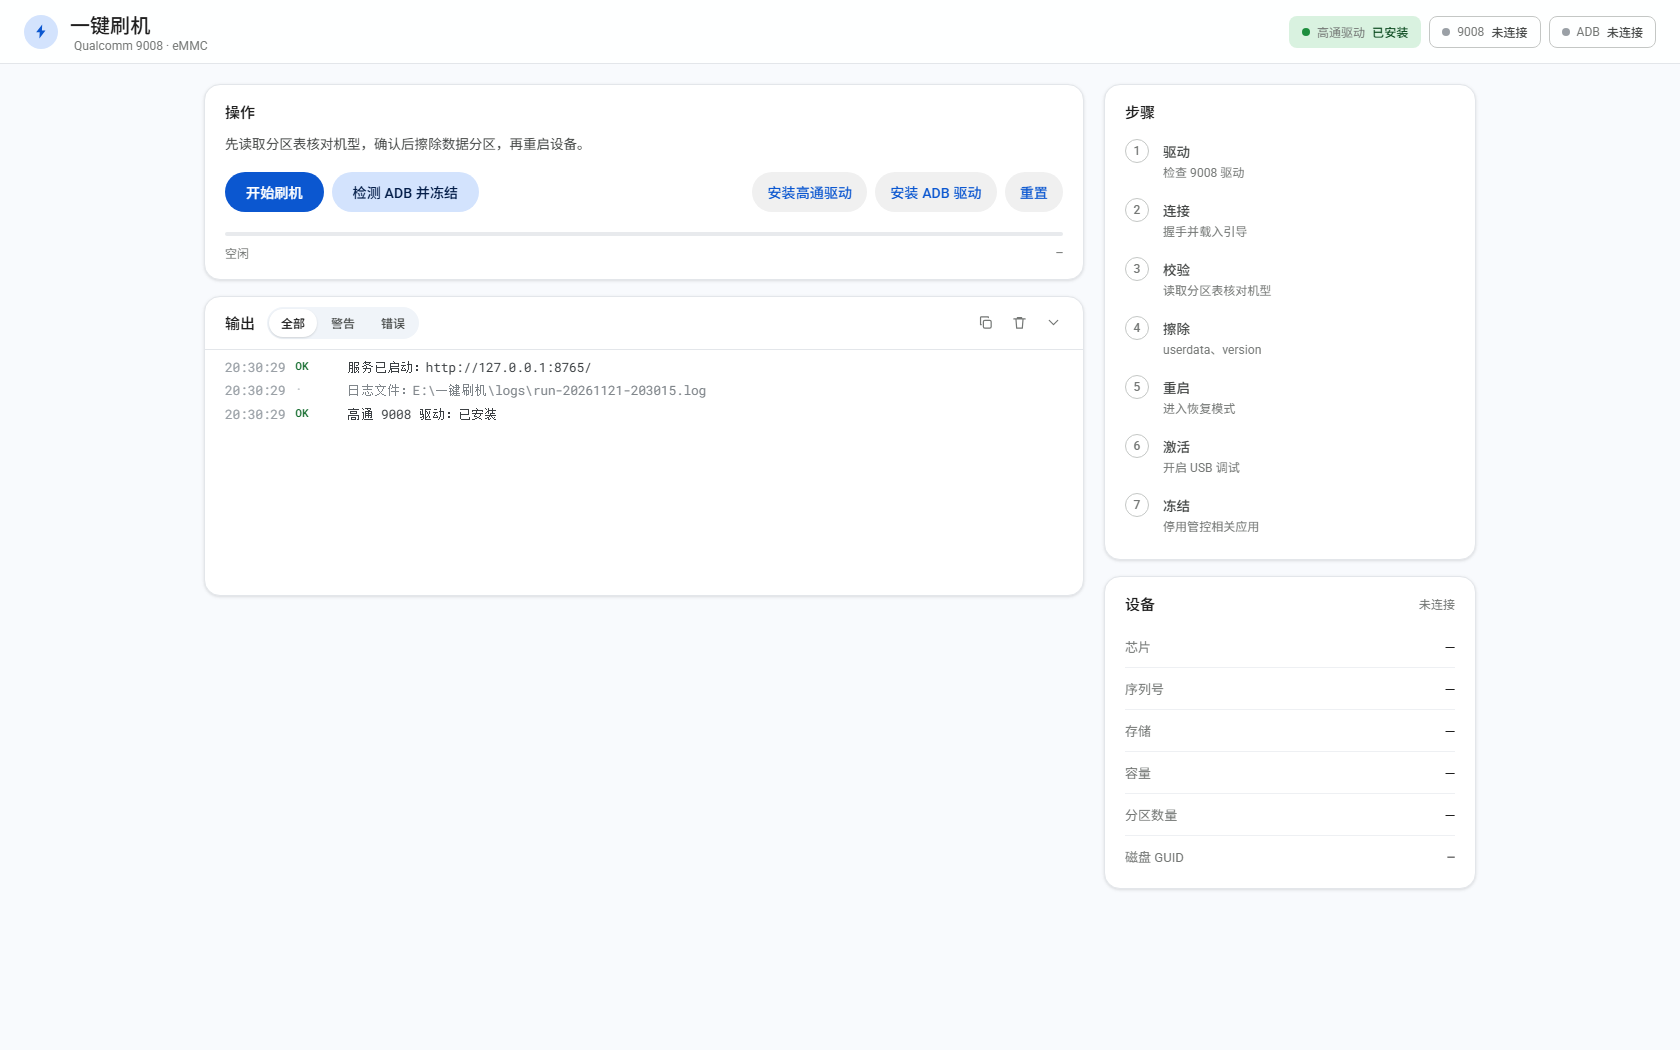
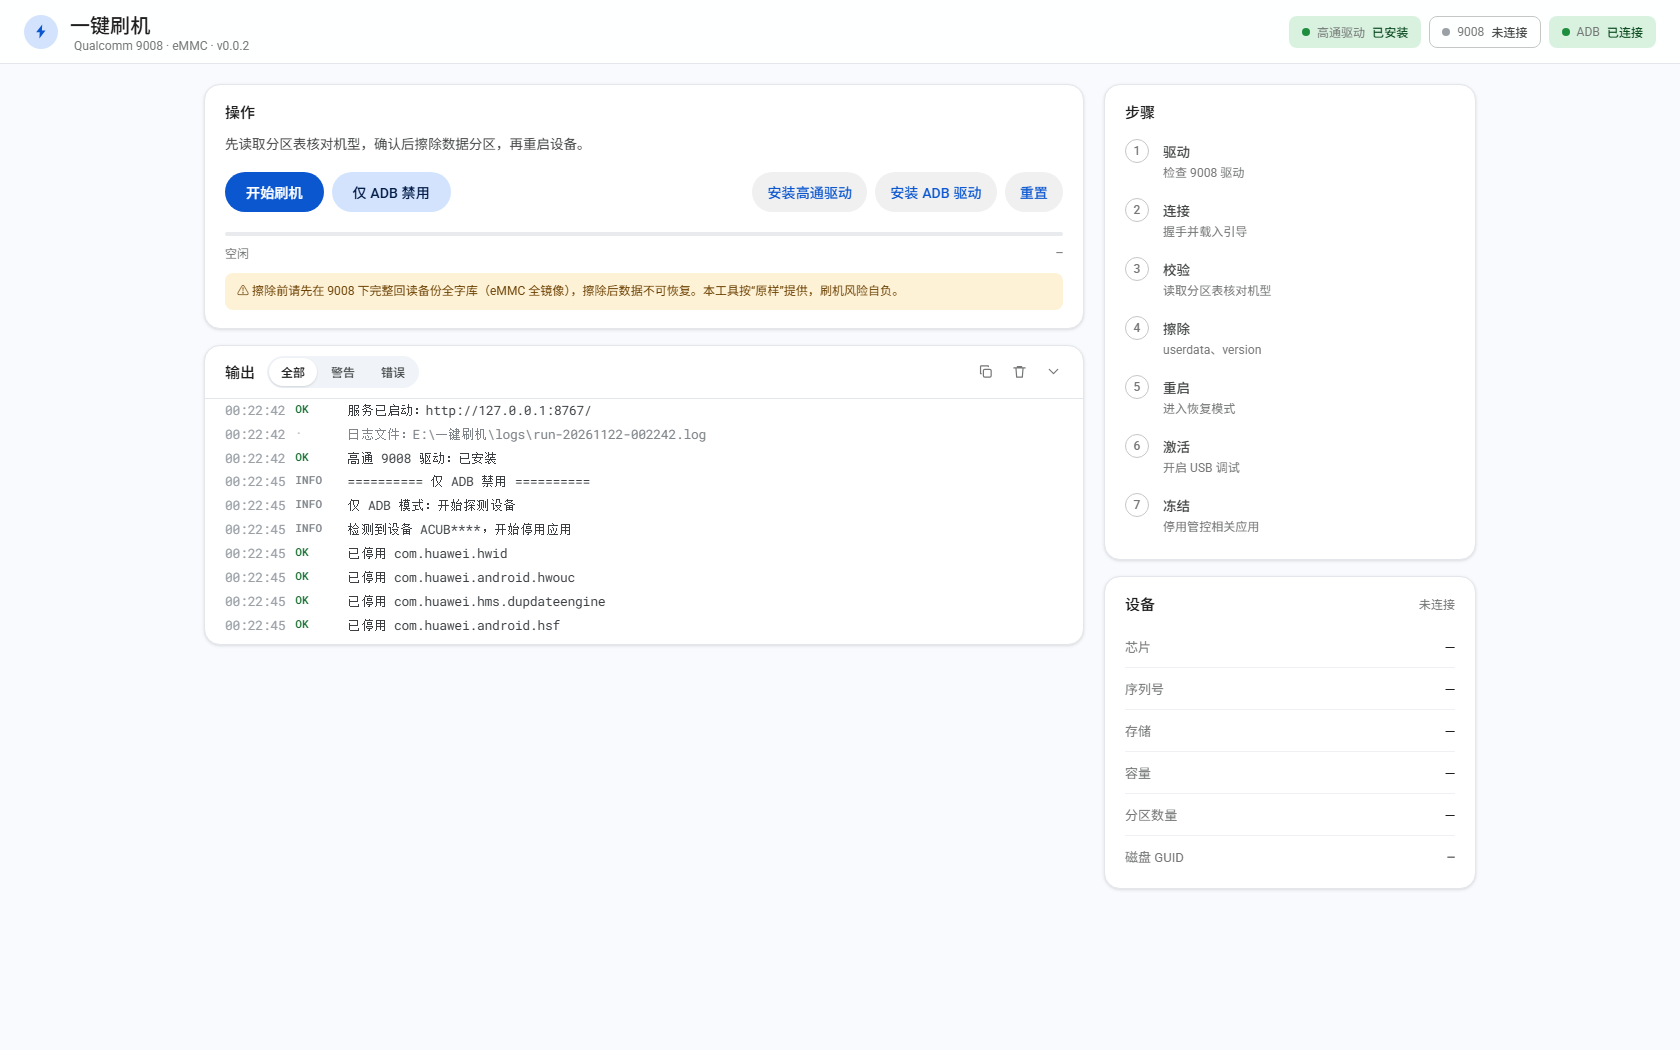
feat: 新增「仅 ADB 禁用」独立入口，发布 v0.0.2
- /api/adb/disable：不进 9008，同步探测 adb 设备并停用 4 个华为管控应用，返回逐项结果
- 前端新增按钮与结果弹窗（成功/未连接/未授权/缺 adb 分别提示）
- 界面与日志中的设备序列号改为打码（前 4 位 + ****）
- 标题栏显示版本号 0.0.2
- README 增加更新日志与“仅 ADB 禁用”用法

diff --git a/web/app.js b/web/app.js
@@ -205,10 +205,11 @@
         since = st.events[st.events.length - 1].id;
         renderLog(st.events);
       }
+      if (st.version) $("ver").textContent = "v" + st.version;
       setChip($("c-driver"), st.driver_ok ? "ok" : "warn", st.driver_ok ? "已安装" : "未安装");
       const port = (st.edl_ports || [])[0];
       setChip($("c-edl"), port ? "ok" : "", port || "未连接");
-      setChip($("c-adb"), st.adb_serial ? "ok" : "", st.adb_serial || "未连接");
+      setChip($("c-adb"), st.adb_serial ? "ok" : "", st.adb_serial ? "已连接" : "未连接");
 
       renderSpec(st.device || {});
       renderSteps(st.phase);
@@ -225,8 +226,37 @@
     if (!r.ok) { toast(r.error || "启动失败"); $("btn-flash").disabled = false; }
   };
   $("btn-adb").onclick = async () => {
-    const r = await fetch("/api/adb/freeze", { method: "POST" }).then((x) => x.json());
-    if (!r.ok) toast(r.error || "启动失败");
+    const btn = $("btn-adb");
+    const label = btn.textContent;
+    btn.disabled = true;
+    btn.textContent = "探测中…";
+    try {
+      const r = await fetch("/api/adb/disable", { method: "POST" }).then((x) => x.json());
+      if (r.ok) {
+        const list = (r.results || []).map((x) => `${x.ok ? "✓" : "✗"} ${x.pkg}`).join("\n");
+        showInfo("已停用相关应用",
+          `设备：${r.serial}\n\n${list}\n\n` +
+          "请不要打开应用市场、云空间、华为账号、系统更新等华为账号相关功能。\n" +
+          "如需恢复：adb shell pm enable <包名>");
+      } else if (r.reason === "no_device") {
+        showInfo("未检测到设备",
+          "用数据线连接电脑，在平板上打开 USB 调试并允许授权，然后重新点“仅 ADB 禁用”。");
+      } else if (r.reason === "unauthorized") {
+        showInfo("需要授权",
+          "平板上应该弹出了 USB 调试授权窗口：勾选“始终允许”并确定，然后再试一次。");
+      } else if (r.reason === "busy") {
+        toast("任务进行中，请稍候");
+      } else if (r.reason === "adb_missing") {
+        showInfo("缺少 adb", "未找到 " + (r.detail || "adb") + "，请使用完整安装包。");
+      } else {
+        showInfo("停用未完成", "设备状态：" + (r.reason || "未知"));
+      }
+    } catch (e) {
+      toast("请求失败");
+    } finally {
+      btn.disabled = false;
+      btn.textContent = label;
+    }
   };
   $("btn-driver").onclick = () => {
     toast("正在安装高通驱动，请在弹出的窗口里确认");

diff --git a/web/index.html b/web/index.html
@@ -14,7 +14,7 @@
     </div>
     <div class="ab-text">
       <div class="ab-title">一键刷机</div>
-      <div class="ab-sub">Qualcomm 9008 · eMMC</div>
+      <div class="ab-sub">Qualcomm 9008 · eMMC · <span id="ver"></span></div>
     </div>
   </div>
   <div class="ab-right">
@@ -32,7 +32,7 @@
         <p class="desc">先读取分区表核对机型，确认后擦除数据分区，再重启设备。</p>
         <div class="actions">
           <button class="btn filled" id="btn-flash">开始刷机</button>
-          <button class="btn tonal" id="btn-adb">检测 ADB 并冻结</button>
+          <button class="btn tonal" id="btn-adb">仅 ADB 禁用</button>
           <span class="spacer"></span>
           <button class="btn text" id="btn-driver">安装高通驱动</button>
           <button class="btn text" id="btn-addrv">安装 ADB 驱动</button>

diff --git a/app/server.py b/app/server.py
@@ -40,6 +40,8 @@ ADB_EXE = os.path.join(BASE, "tools", "platform-tools", "adb.exe")
 
 CREATE_NO_WINDOW = 0x08000000 if os.name == "nt" else 0
 
+APP_VERSION = "0.0.2"
+
 EXPECTED_MSM_ID = 0x1B80E1          # SM6225 / 骁龙 680
 REQUIRED_PARTITIONS = ["oeminfo", "super", "userdata", "version", "boot", "vbmeta"]
 ERASE_TARGETS = ["userdata", "version"]
@@ -110,6 +112,7 @@ class Store:
                 "prompt": self.prompt,
                 "running": self.running,
                 "adb_serial": self.adb_serial,
+                "version": APP_VERSION,
                 "driver_ok": self.device.get("driver_ok"),
                 "edl_ports": [p[0] for p in core.list_edl_ports()],
             }
@@ -212,6 +215,13 @@ def adb_run(args, timeout=60, serial=None):
         return 124, "adb 超时"
 
 
+def mask_serial(serial):
+    """序列号只保留前 4 位，避免日志/界面泄露。"""
+    if not serial:
+        return "****"
+    return serial[:4] + "****"
+
+
 def adb_devices():
     rc, out = adb_run(["devices"], timeout=30)
     devs = []
@@ -229,7 +239,7 @@ def adb_ensure_server():
 
 
 def freeze_packages(serial):
-    ST.log("开始冻结华为管控相关包（设备 %s）" % serial, "info")
+    ST.log("开始停用华为管控相关包（设备 %s）" % mask_serial(serial), "info")
     ok_all = True
     for pkg in FREEZE_PACKAGES:
         rc, out = adb_run(["shell", "pm", "disable-user", "--user", "0", pkg],
@@ -257,7 +267,7 @@ def watch_adb_and_freeze(timeout=1800):
         if devs:
             serial, state = devs[0]
             if state != last_state:
-                ST.log("检测到设备 %s（状态 %s）" % (serial, state), "info")
+                ST.log("检测到设备 %s（状态 %s）" % (mask_serial(serial), state), "info")
                 last_state = state
             if state == "device":
                 with ST.lock:
@@ -446,34 +456,46 @@ def flash_worker():
         ST.set_progress(0, 0)
 
 
-def adb_only_worker():
-    ST.running = True
-    try:
-        if not os.path.exists(ADB_EXE):
-            ST.log("未找到 adb：%s" % ADB_EXE, "error")
-            ST.set_phase("error")
-            return
-        adb_ensure_server()
+def adb_disable_only(wait_seconds=15):
+    """仅走 ADB：探测设备并停用管控相关应用，返回结构化结果。"""
+    if not os.path.exists(ADB_EXE):
+        return {"ok": False, "reason": "adb_missing", "detail": ADB_EXE}
+    ST.log("仅 ADB 模式：开始探测设备", "info")
+    adb_ensure_server()
+    deadline = time.time() + wait_seconds
+    serial = state = None
+    while time.time() < deadline:
         devs = adb_devices()
-        if not devs:
-            ST.log("未检测到 ADB 设备：请确认已开启 USB 调试并授权", "warn")
-            ST.set_phase("adb_wait")
-            ok = watch_adb_and_freeze()
-            if not ok:
-                ST.set_phase("guide")
-            return
-        serial, state = devs[0]
-        if state != "device":
-            ST.log("设备状态为 %s，请在平板上允许 USB 调试" % state, "warn")
-            ST.set_phase("guide")
-            return
-        with ST.lock:
-            ST.adb_serial = serial
-        ST.set_phase("freezing")
-        freeze_packages(serial)
-        ST.set_phase("done")
-    finally:
-        ST.running = False
+        if devs:
+            serial, state = devs[0]
+            if state == "device":
+                break
+        time.sleep(1)
+
+    if not serial:
+        ST.log("未检测到 ADB 设备", "warn")
+        return {"ok": False, "reason": "no_device",
+                "detail": "adb devices 中没有设备"}
+    if state != "device":
+        ST.log("设备状态为 %s，需要先在平板上允许 USB 调试" % state, "warn")
+        return {"ok": False, "reason": "unauthorized" if state == "unauthorized" else state,
+                "serial": serial}
+
+    with ST.lock:
+        ST.adb_serial = serial
+    ST.log("检测到设备 %s，开始停用应用" % mask_serial(serial), "info")
+
+    results = []
+    for pkg in FREEZE_PACKAGES:
+        rc, out = adb_run(["shell", "pm", "disable-user", "--user", "0", pkg],
+                          timeout=60, serial=serial)
+        text = (out or "").strip()
+        ok = "disabled-user" in text.lower()
+        line = text.splitlines()[-1] if text else ""
+        results.append({"pkg": pkg, "ok": ok, "msg": line})
+        ST.log(("已停用 " if ok else "停用失败 ") + pkg, "success" if ok else "error")
+
+    return {"ok": all(r["ok"] for r in results), "serial": mask_serial(serial), "results": results}
 
 
 # --------------------------------------------------------------------------
@@ -544,12 +566,11 @@ class Handler(BaseHTTPRequestHandler):
             ST.set_phase("starting")
             threading.Thread(target=flash_worker, daemon=True).start()
             return self._json({"ok": True})
-        if path == "/api/adb/freeze":
+        if path == "/api/adb/disable":
             if ST.running:
-                return self._json({"ok": False, "error": "任务进行中"})
-            ST.log("========== 检测 ADB 并冻结 ==========", "info")
-            threading.Thread(target=adb_only_worker, daemon=True).start()
-            return self._json({"ok": True})
+                return self._json({"ok": False, "reason": "busy", "detail": "任务进行中"})
+            ST.log("========== 仅 ADB 禁用 ==========", "info")
+            return self._json(adb_disable_only())
         if path == "/api/answer":
             data = self._body()
             ok = ST.answer(int(data.get("id", 0)), bool(data.get("answer")))

diff --git a/README.md b/README.md
@@ -26,6 +26,7 @@
 - 重启后按 5 步手动清单引导：恢复出厂 → 无网络热点激活 → 开发者选项 → USB 调试 → 授权连接
 - ADB 连接后自动停用 `com.huawei.hwid`、`com.huawei.android.hwouc`、
   `com.huawei.hms.dupdateengine`、`com.huawei.android.hsf`，并提示不要使用华为账号相关功能
+- 独立的「仅 ADB 禁用」入口：不进入 9008，直接探测已开机设备并停用上述应用，逐项显示结果
 - 全程日志写入 `logs/`，界面底部控制台支持等级过滤、复制、折叠
 
 ## 目录结构
@@ -91,6 +92,14 @@ python scripts/build_exe.py
 6. **激活**：按清单操作，直到设备以 `device` 状态出现在 `adb devices`。
 7. **停用**：执行 `pm disable-user --user 0 <包名>`，完成后提示不要使用华为账号 / HMS 功能。
 
+### 仅 ADB 禁用（不刷机）
+
+设备已经开机、只想停用管控应用时，点「仅 ADB 禁用」：
+
+1. 电脑装好 ADB 驱动，平板打开 USB 调试；
+2. 点按钮，程序自动探测 `adb devices`（最多等 15 秒）；
+3. 检测到设备后逐个执行 `pm disable-user`，弹窗列出每个包的结果。
+
 恢复被停用的应用：`adb shell pm enable <包名>`。
 
 ![手动步骤](docs/manual.png)
@@ -118,6 +127,11 @@ python scripts/build_exe.py
 
 - 擦除、重启、ADB 停用三段目前只有代码路径，未在真机上完整跑通，请自行评估风险。
 - 仅在自有设备上用于恢复出厂/重新激活场景，请遵守当地法律与设备保修条款。
+
+## 更新日志
+
+- **v0.0.2**（2026-11-22）：新增「仅 ADB 禁用」独立入口；标题栏显示版本号；ADB 停用路径完成真机验证
+- **v0.0.1**（2026-11-21）：首个公测版，9008 校验 / 擦除 / 重启与激活引导
 
 ## 许可
 
